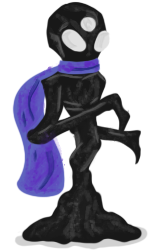
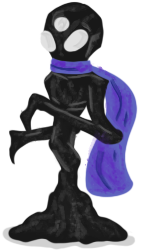
fixed bugs maybe??

diff --git a/src/main/java/wanderingMiniBosses/monsters/banditking/BanditKing.java b/src/main/java/wanderingMiniBosses/monsters/banditking/BanditKing.java
@@ -28,7 +28,7 @@ public class BanditKing extends AbstractWanderingBoss {
     private static final float HB_W = 160.0F;
     private static final float HB_H = 260.0F;
 
-    private static int MAX_HEALTH = 222;
+    private static int MAX_HEALTH = 256;
 
     private static final byte PUNCH = 0;
     private static final byte TAKEURSHIT = 1;
@@ -47,6 +47,7 @@ public class BanditKing extends AbstractWanderingBoss {
 
     public BanditKing() {
         this(funnyNameThing(), ID, MAX_HEALTH);
+        flipHorizontal = true;
     }
 
     public BanditKing(String name, String ID, int maxHealth) {

diff --git a/src/main/java/wanderingMiniBosses/powers/BurnPower.java b/src/main/java/wanderingMiniBosses/powers/BurnPower.java
@@ -4,7 +4,10 @@ import com.badlogic.gdx.graphics.g2d.TextureAtlas;
 import com.megacrit.cardcrawl.cards.DamageInfo;
 import com.megacrit.cardcrawl.core.AbstractCreature;
 import com.megacrit.cardcrawl.core.CardCrawlGame;
+import com.megacrit.cardcrawl.dungeons.AbstractDungeon;
 import com.megacrit.cardcrawl.localization.PowerStrings;
+import com.megacrit.cardcrawl.orbs.AbstractOrb;
+import com.megacrit.cardcrawl.orbs.EmptyOrbSlot;
 import com.megacrit.cardcrawl.powers.AbstractPower;
 import wanderingMiniBosses.WanderingminibossesMod;
 import wanderingMiniBosses.actions.SetPlayerBurnAction;
